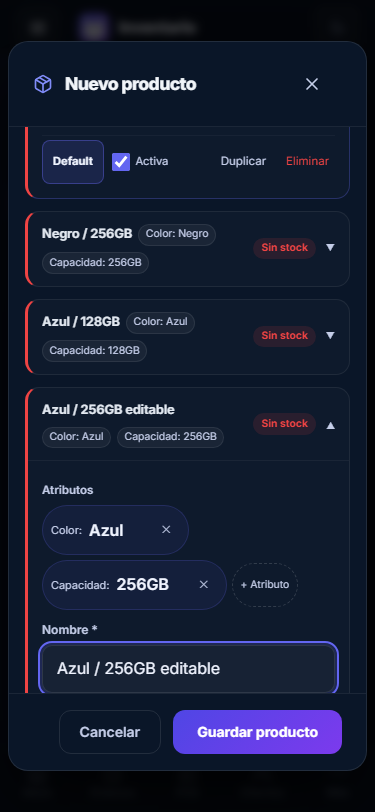
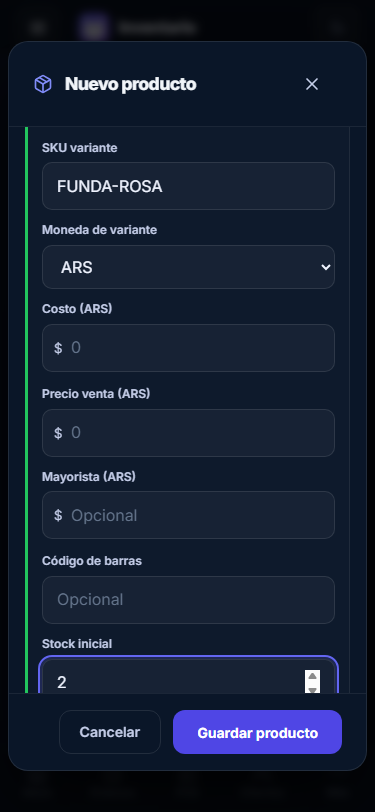
fix(products): integrate variants with canonical solid buttons

diff --git a/src/components/products/ProductFormModal.tsx b/src/components/products/ProductFormModal.tsx
@@ -1764,11 +1764,12 @@ export function ProductFormModal({
           </button>
           <button
             data-testid="product-form-save-button"
+            className="btn btn-primary"
             onClick={handleSubmit}
             disabled={saving}
             // BETA-UX-1E: `accentCta.text`, no `'#fff'`. El tema claro remapea el
             // blanco en línea a texto oscuro; lo mismo en los otros tres CTAs.
-            style={{ display: 'flex', alignItems: 'center', gap: '0.5rem', padding: '0.625rem 1.5rem', background: 'linear-gradient(135deg, #6366f1, #4f46e5)', border: 'none', borderRadius: '0.75rem', color: accentCta.text, fontWeight: 700, fontSize: '0.875rem', cursor: saving ? 'not-allowed' : 'pointer', opacity: saving ? 0.7 : 1, fontFamily: F }}
+            style={{ display: 'flex', alignItems: 'center', gap: '0.5rem', padding: '0.625rem 1.5rem', border: 'none', borderRadius: '0.75rem', color: accentCta.text, fontWeight: 700, fontSize: '0.875rem', cursor: saving ? 'not-allowed' : 'pointer', opacity: saving ? 0.7 : 1, fontFamily: F }}
           >
             {saving
               ? <><RefreshCw size={14} style={{ animation: 'tr-spin 0.8s linear infinite' }} /> Guardando...</>
@@ -1794,7 +1795,8 @@ export function ProductFormModal({
             <div style={{ display: 'flex', flexDirection: 'column', gap: '0.5rem', padding: '0.75rem 1.5rem 1.25rem' }}>
               <button
                 onClick={keepEditing}
-                style={{ width: '100%', padding: '0.625rem 1rem', background: 'linear-gradient(135deg,#6366f1,#4f46e5)', border: 'none', borderRadius: '0.75rem', color: accentCta.text, fontWeight: 700, fontSize: '0.875rem', cursor: 'pointer', fontFamily: F }}
+                className="btn btn-primary"
+                style={{ width: '100%', padding: '0.625rem 1rem', border: 'none', borderRadius: '0.75rem', color: accentCta.text, fontWeight: 700, fontSize: '0.875rem', cursor: 'pointer', fontFamily: F }}
               >
                 Seguir editando
               </button>
@@ -1838,7 +1840,8 @@ export function ProductFormModal({
                   cleanFormRef.current = serializeForm(draftInfo.form)
                   setDraftInfo(null)
                 }}
-                style={{ width: '100%', padding: '0.625rem 1rem', background: 'linear-gradient(135deg,#6366f1,#4f46e5)', border: 'none', borderRadius: '0.75rem', color: accentCta.text, fontWeight: 700, fontSize: '0.875rem', cursor: 'pointer', fontFamily: F }}
+                className="btn btn-primary"
+                style={{ width: '100%', padding: '0.625rem 1rem', border: 'none', borderRadius: '0.75rem', color: accentCta.text, fontWeight: 700, fontSize: '0.875rem', cursor: 'pointer', fontFamily: F }}
               >
                 Restaurar borrador
               </button>
@@ -1905,7 +1908,8 @@ class ProductFormModalErrorBoundary extends Component<
               Ocurrió un error inesperado. Tu borrador puede estar guardado en localStorage.
             </p>
             <button onClick={() => { this.setState({ hasError: false, error: null }); this.props.onClose() }}
-              style={{ padding: '0.625rem 1.5rem', background: 'linear-gradient(135deg,#6366f1,#4f46e5)', border: 'none', borderRadius: '0.75rem', color: accentCta.text, fontWeight: 700, cursor: 'pointer', fontFamily: F }}>
+              className="btn btn-primary"
+              style={{ padding: '0.625rem 1.5rem', border: 'none', borderRadius: '0.75rem', color: accentCta.text, fontWeight: 700, cursor: 'pointer', fontFamily: F }}>
               Cerrar
             </button>
           </div>

diff --git a/tests/e2e/m7/product-variants-v2.spec.ts b/tests/e2e/m7/product-variants-v2.spec.ts
@@ -83,14 +83,28 @@ test('@m7 variants V2: create through UI, sell one child, add another to an orde
   expect(stockOf(parent.id)).toBe(0)
 })
 
+for (const viewport of [{ name: 'mobile 375', width: 375, height: 812 }, { name: 'desktop', width: 1440, height: 900 }]) {
 for (const theme of ['light', 'dark']) {
-  test(`@m7 variants V2 mobile 375: manual cards and dimensional generator (${theme})`, async ({ page }, testInfo) => {
-    await page.setViewportSize({ width: 375, height: 812 })
+  test(`@m7 variants V2 ${viewport.name}: manual cards and dimensional generator (${theme})`, async ({ page }, testInfo) => {
+    await page.setViewportSize({ width: viewport.width, height: viewport.height })
     await page.goto('/inventory')
     await page.evaluate(theme => document.documentElement.setAttribute('data-theme', theme), theme)
     await page.getByTestId('inventory-new-product-chevron').click()
     await page.getByTestId('inventory-new-product-variants').click()
     const modal = page.getByTestId('product-form-modal')
+    const save = modal.getByTestId('product-form-save-button')
+    const appearance = () => save.evaluate(element => {
+      const style = getComputedStyle(element)
+      return { background: style.backgroundColor, image: style.backgroundImage, shadow: style.boxShadow, height: element.getBoundingClientRect().height }
+    })
+    await page.mouse.move(0, 0)
+    expect(await appearance()).toMatchObject({ background: 'rgb(79, 70, 229)', image: 'none', shadow: 'none' })
+    expect((await appearance()).height).toBeGreaterThanOrEqual(44)
+    await save.hover()
+    await expect.poll(async () => (await appearance()).background).toBe('rgb(67, 56, 202)')
+    expect(await appearance()).toMatchObject({ image: 'none', shadow: 'none' })
+    await page.mouse.move(0, 0)
+    await expect.poll(async () => (await appearance()).background).toBe('rgb(79, 70, 229)')
     await expect(modal.getByTestId('variant-name-input')).toBeVisible()
     await modal.getByTestId('variant-name-input').fill('Negro / 128GB')
     await modal.getByRole('button', { name: 'Generador masivo', exact: true }).click()
@@ -110,6 +124,7 @@ for (const theme of ['light', 'dark']) {
     expect(fields.every(width => width >= 44)).toBe(true)
     const checkboxTargets = await modal.locator('label:has(input[type="checkbox"]):visible').evaluateAll(elements => elements.map(element => element.getBoundingClientRect().height))
     expect(checkboxTargets.every(height => height >= 44)).toBe(true)
-    await page.screenshot({ path: testInfo.outputPath(`variants-mobile-${theme}.png`) })
+    await page.screenshot({ path: testInfo.outputPath(`variants-${viewport.name === 'desktop' ? 'desktop' : 'mobile'}-${theme}.png`) })
   })
+}
 }

diff --git a/tests/components/betaUx1eAccentContrast.test.tsx b/tests/components/betaUx1eAccentContrast.test.tsx
@@ -355,7 +355,7 @@ describe('BETA-UX-1E · la fuente de las seis superficies', () => {
     expect(leer('src/pages/UsersManagement.tsx').match(/\.\.\.primaryButtonStyle/g)).toHaveLength(2)
   })
 
-  // ── Producto: los cuatro CTAs conservan su gradiente y toman el token ─────
+  // ── Producto: los cuatro CTAs usan el primario sólido de BUTTON-SYSTEM-1A ─
   const PRODUCTO: [string, string][] = [
     ['«Guardar producto»', 'product-form-save-button'],
     ['«Seguir editando»', 'Seguir editando'],
@@ -365,10 +365,14 @@ describe('BETA-UX-1E · la fuente de las seis superficies', () => {
   it.each(PRODUCTO)('Producto · %s', (_nombre, aguja) => {
     const estilo = estiloDe('src/components/products/ProductFormModal.tsx', aguja)
     expect(estilo.get('color')).toBe('accentCta.text')
-    // Sobre este gradiente el blanco ya llegaba a AA bajo el texto (medido en el
-    // navegador): no se tocó. Su punto más claro es el índigo de la esquina.
-    const paradas = hexes(fondoDe(estilo))
-    expect(paradas).toEqual(['#6366f1', '#4f46e5'])
+    // La clase comparte reposo/hover/foco con el sistema. Un fondo en línea
+    // ocultaría el hover --indigo-700 y podría reintroducir un gradiente.
+    const sf = parsear('src/components/products/ProductFormModal.tsx')
+    const atributos = atributosDe(sf, 'src/components/products/ProductFormModal.tsx', aguja, 'button')
+    const clase = atributos.properties.find(a => ts.isJsxAttribute(a) && a.name.getText(sf) === 'className') as ts.JsxAttribute
+    expect(clase.initializer?.getText(sf)).toBe('"btn btn-primary"')
+    expect(fondoDe(estilo)).toBe('')
+    expect(estilo.has('boxShadow')).toBe(false)
   })
 
   it('Notas de la orden: sin guardar es un CTA de acento; «Guardado» no cambia', () => {
@@ -570,6 +574,8 @@ describe('BETA-UX-1E · el estilo que termina en el DOM', () => {
     const cta = screen.getByTestId('product-form-save-button')
     expect(cta).toHaveTextContent('Guardar producto')
     expect(cta.style.color).toBe('var(--text-on-accent)')
+    expect(cta).toHaveClass('btn', 'btn-primary')
+    expect(cta.style.background).toBe('')
     expect(cae(cta)).toBe(false)
   })
 

diff --git a/docs/product-variants-v2.md b/docs/product-variants-v2.md
@@ -3,6 +3,18 @@
 Branch: `codex/product-variants-v2`. Base solicitada: `6ef066d5bc3e28ed56e94c1587be584c48f7e0a0`.
 El PR y su SHA final se informan en la entrega. Sin merge, despliegue, `db push` ni cambios en producción.
 
+## Integración final con main / BUTTON-SYSTEM-1A
+
+La rama se rebasó sobre `f0f72acf6a8dacff06668bca4f83fa04c7879ab1` (merge certificado de #177). No hubo conflictos de Git; sí había un conflicto de intención entre el microfix histórico del CTA y la nueva autoridad de botones. Los cuatro CTAs primarios del modal ahora reutilizan `.btn-primary`, sin fondo ni sombra en línea: `--indigo-600` en reposo, `--indigo-700` en hover, sin gradientes/glow. Conservan el token de texto, disposición, accesibilidad y tamaños de modal. Las acciones de página y `.btn-page-action` de main permanecen intactas.
+
+La expectativa antigua de gradiente para esos CTAs seguía en el archivo BETA-UX-1E de main; se actualizó para exigir la clase canónica, ausencia de overrides de fondo/sombra y el token de texto. Los contratos actuales de BUTTON-SYSTEM-1A y sus valores de contraste no se relajaron. El guard de variantes agrega tres mutantes: gradiente, glow y pérdida de clase canónica (17 controles en total).
+
+El servicio `productService.ts` y la migración coinciden exactamente con el SHA certificado anterior. Se preserva la identidad tenant-scoped de `updateProduct`, así como stock, retry, relaciones, compatibilidad legacy y precios/costos. Entre la base anterior y este main no se incorporaron migraciones: las de Mercado Pago y G2-C.3A3 ya estaban en la base anterior, y no cambian los objetos ni dependencias de esta migración.
+
+La certificación se ejecuta de nuevo sobre esta base, sin reutilizar el verde anterior. Se amplía la matriz visual del modal a 375×812 y 1440×900, claro/oscuro, verificando fondo sólido, hover, ausencia de glow, controles de 44px y ausencia de overflow. Los resultados de tests, capturas revisadas y CI completo del nuevo SHA se informan en la entrega. No se aplicó ninguna migración adicional al entorno existente ni a producción; las matrices CI usan bases descartables.
+
+Antes del push pasaron 684 pruebas de componentes (BETA-UX-1E/1F, BUTTON-SYSTEM-1A, variantes y A2), TypeScript, lint sin errores, los 17 mutantes de variantes, 38 de A2, 92 de A3 y 47 de SEC-08B. Se revisaron las cuatro capturas reales nuevas incluidas abajo. El entorno local tenía el puerto de su gateway reservado por Windows; para la validación se utilizó un puente temporal sólo en localhost:55421, permitido por el guard existente, sin relajarlo ni cambiar migraciones.
+
 ## Discovery y alcance
 
 Se reutilizaron ProductFormModal, VariantSelector, productService y el generador existente. Se leyeron la autoridad de Product Design y sus referencias de contexto, sistema visual, seguridad de ingeniería y calidad. POS mantiene su diseño protegido; Mi Guita no se usa como referencia.
@@ -38,7 +50,7 @@ Mensaje: “El producto y sus variantes se crearon, pero no pudimos confirmar el
 | USD | Referencia de venta USD en `base_price`, costo USD separado, cotización y actualización automática por hijo; padre sin repricing automático. Una variante USD puede heredar costo ARS por conversión. Overrides y ceros explícitos se conservan. |
 | Generador | Dimensiones completas y únicas, valores deduplicados, máximo 100 combinaciones; combina con filas manuales sin reemplazar ediciones. Se pueden editar nombres, SKU, atributos y valores propios. |
 | Valores base | Reutiliza applyBaseToVariants para completar huecos sin pisar cambios individuales; conversiones con cotización válida, mínimo y ubicación heredables. |
-| Mobile / temas | 375 px, filas de campos en una columna, textos largos sin desbordar, controles/touch targets de 44 px, foco visible y selector con Escape, ciclo de Tab y restauración de foco. CTA principal conserva el fondo exacto de la base y el token de texto certificado por BETA-UX-1E. |
+| Mobile / temas | 375 px, filas de campos en una columna, textos largos sin desbordar, controles/touch targets de 44 px, foco visible y selector con Escape, ciclo de Tab y restauración de foco. CTAs primarios reutilizan el índigo sólido y hover de BUTTON-SYSTEM-1A con el token de texto certificado. |
 
 ## Migración preparada
 
@@ -56,15 +68,15 @@ Mensaje: “El producto y sus variantes se crearon, pero no pudimos confirmar el
 
 El frontend V2 necesita los permisos y guards de `product_variants`, por lo que la migración debe estar aplicada **ANTES** de que llegue a producción. No se debe usar «merge y después db push» como secuencia de rollout. Antes del deploy productivo se ejecutarán manualmente `supabase migration list` y `supabase db push --dry-run` para revisar exactamente las migraciones pendientes; esos comandos no se ejecutaron durante este microfix. El repo incluye `20261013120000_beta_mp_plan_b_session_preapproval_unique.sql` además de esta migración: no corresponde hacer un `db push` a ciegas ni aplicar Mercado Pago junto con este lote.
 
-## Microfix del PR #176
+## Microfix histórico del PR #176 (antes de BUTTON-SYSTEM-1A)
 
-El CI del primer SHA falló en «Producto · Guardar producto» de BETA-UX-1E: el CTA había cambiado incidentalmente a `accentCta.background`. Se restauró únicamente su fondo exacto de la base (`linear-gradient(135deg, #6366f1, #4f46e5)`), conservando el token de texto, mobile, temas y accesibilidad. No se cambió la expectativa del test; la uniformidad global de botones queda para BUTTON-SYSTEM-1A.
+El CI del primer SHA falló en «Producto · Guardar producto» de BETA-UX-1E: el CTA había cambiado incidentalmente a `accentCta.background`. En ese microfix se restauró su fondo exacto de la base entonces vigente, conservando el token de texto, mobile, temas y accesibilidad. Ese contrato visual histórico fue reemplazado en la integración final con BUTTON-SYSTEM-1A descrita arriba; no se debe restaurar su gradiente.
 
 `updateProduct` resuelve `parent_id,has_variants` con una lectura de inventario filtrada por ID y negocio después de guardar. Producto simple: cero requests a `product_variants`. Padre agrupador: renombrar conserva la actualización de los nombres de sus hijos, sin metadata de variante del padre. Sólo un hijo con `parent_id != null` sincroniza metadata por su ID de inventario y tenant. Una falla de sync informa explícitamente que inventario se guardó y metadata está sin confirmar; si no se puede confirmar la identidad, también se informa ese límite.
 
 Se agregaron cinco contratos: simple sin requests de variantes, simple con tabla de variantes inaccesible, padre renombrado con hijos y otra familia intacta, sync del hijo y error honesto de sync. Los fixtures de edición G2-C.3A2 ahora incluyen la fila existente realista para la lectura de identidad. La migración no cambió ni se aplicó en producción. Los resultados remotos del nuevo SHA se informan en la entrega.
 
-## Validación
+## Validación original (la integración requiere nueva certificación)
 
 | Verificación | Resultado local |
 | --- | --- |
@@ -84,10 +96,12 @@ CI agrega la suite de componentes y la matriz SQL; m7-local incluye los nuevos E
 
 ## Evidencia visual
 
-Capturas revisadas, viewport 375 × 812, después de generar y editar combinaciones:
+Capturas nuevas de la integración con main: familia manual de tres variantes, CTA sólido visible. Revisadas en claro/oscuro a 375×812 y 1440×900:
 
 ![Mobile claro](product-variants-v2/mobile-light.png)
 ![Mobile oscuro](product-variants-v2/mobile-dark.png)
+![Desktop claro](product-variants-v2/desktop-light.png)
+![Desktop oscuro](product-variants-v2/desktop-dark.png)
 
 ## Archivos
 
